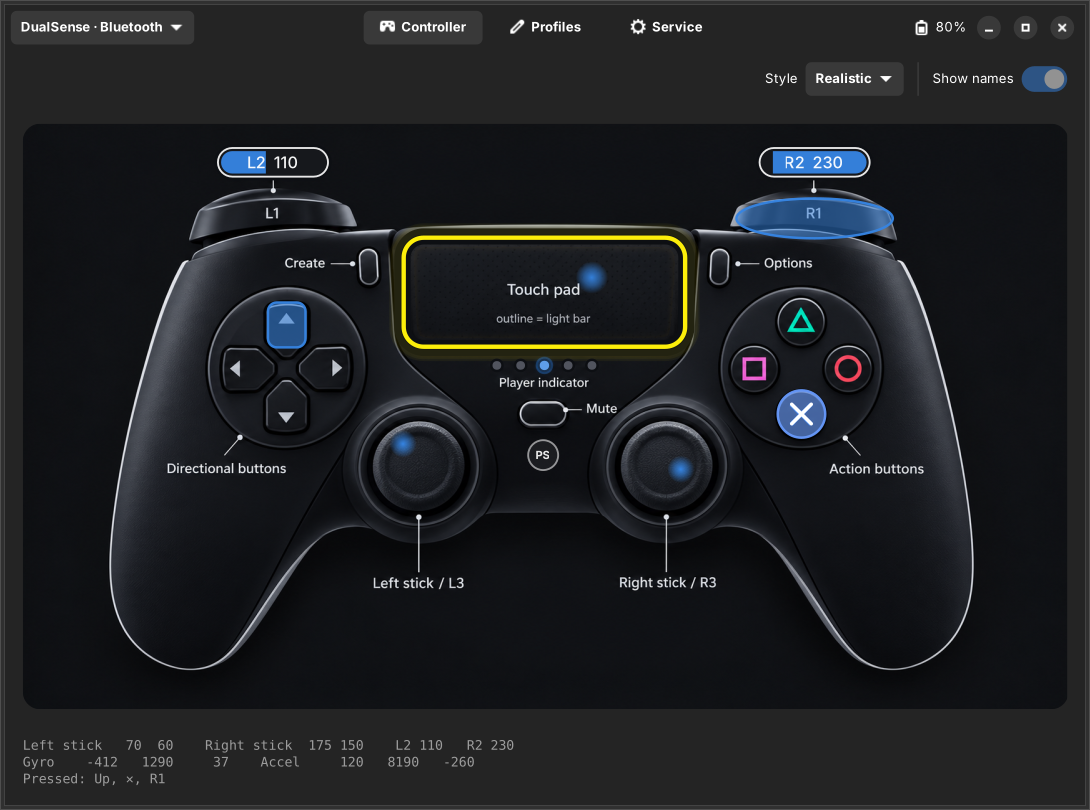
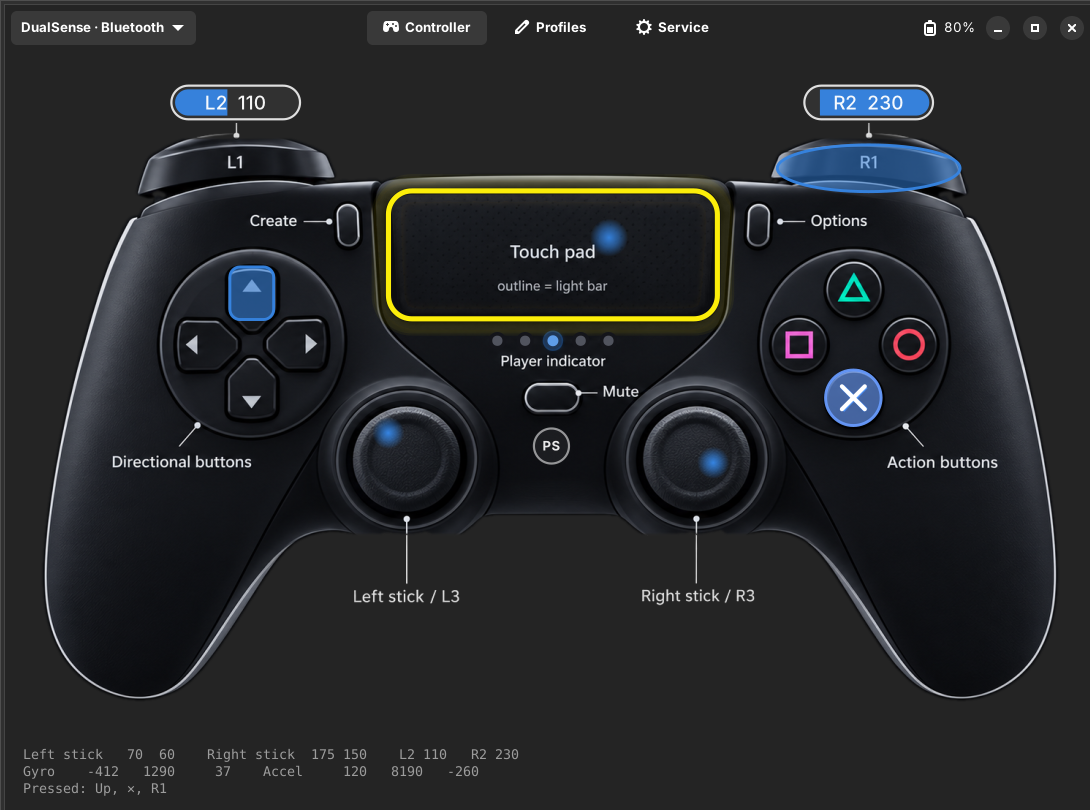
docs: screenshots of the transparent controller view
Claude-Session: https://claude.ai/code/session_01VhzyKXZU1ZSBg4azUcnmCZ

diff --git a/CHANGELOG.md b/CHANGELOG.md
@@ -17,13 +17,11 @@ follows [Semantic Versioning](https://semver.org/).
 - Branch and tag protection: CODEOWNERS, repository rulesets for `main`, `develop` and `v*` tags, and `scripts/apply-repo-protection.sh`.
 
 ### Changed
-- Redesigned controller view with three styles, switchable on the Controller page and remembered:
-  - **Realistic** (default): a rendered controller with live highlights, stick markers, L2/R2
-    meters and player LEDs drawn on top.
-  - **Outline**: flat, bold lines, round pads around the D-pad and action buttons, ringed sticks.
-  - **Shaded**: single-tone shell with depth and recessed sticks.
-
-  In every style the touch pad is outlined in the current light bar colour.
+- New controller view: a rendered controller on a transparent background with the live state drawn
+  on top (L2/R2 meters, pressed highlights, stick position markers, touch points, player LEDs, and
+  the touch pad ring in the current light bar colour). Labels outside the controller follow the
+  theme's text colour. The asset is built from `art/controller-realistic-source.png` by
+  `scripts/make-realistic-asset.py`.
 - Low-battery notification now comes below 25% (was at 20%); thresholds are configurable.
 
 ## [0.1.1] - 2026-10-15
